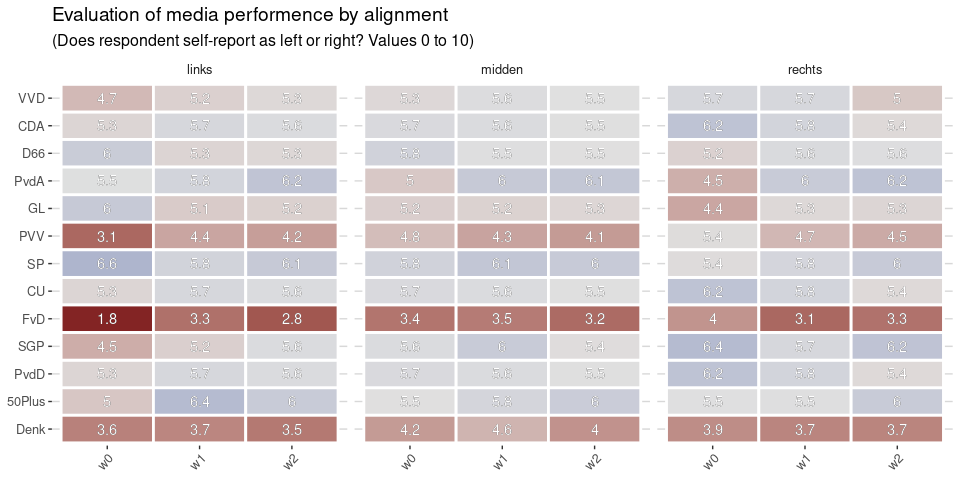
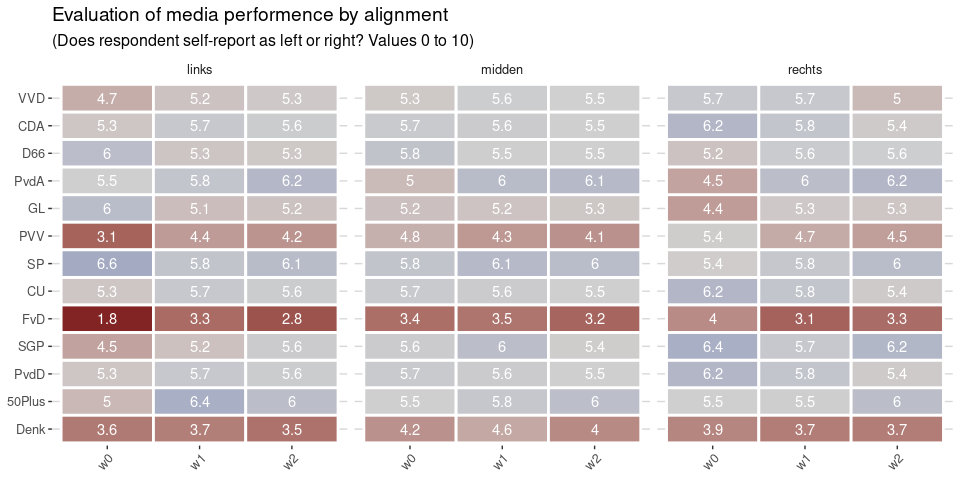
Wave 2 update

diff --git a/docs/reports/wave2/wave2.md b/docs/reports/wave2/wave2.md
@@ -61,10 +61,10 @@ Does notice depend on alignment of repondent?
 alignment](Media_performance_by_alignment.csv)\]
 
 Notice of parties (visibility) does not really depend on the ideological
-alignment of the respondent. Interestingly, evaluation of their media
-performance does differ: rightist voters are overall more critical of
-rightist parties (especially FvD, PVV), while leftist voters are a bit
-more critical of GL.
+alignment of the respondent. Evaluation of their media performance does
+differ: leftist voters are overall more critical of rightist parties.
+Rightist voters were a bit more critical of GL, SP, D66 and PvdA, but
+this has mostly converged.
 
 The Undecided Voter
 ===================
